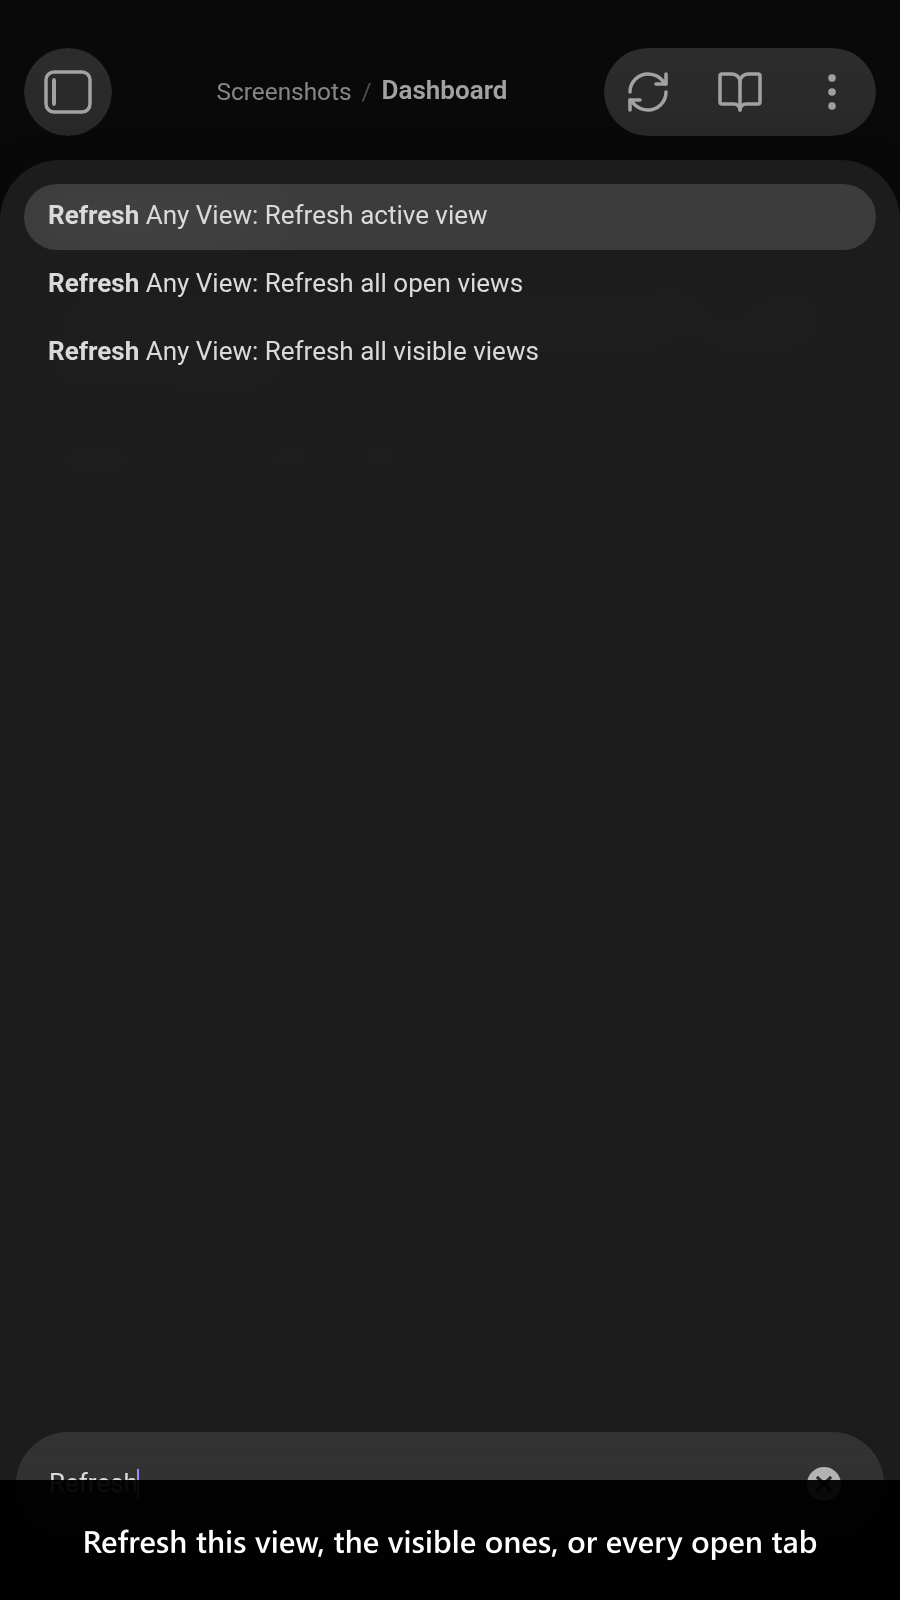
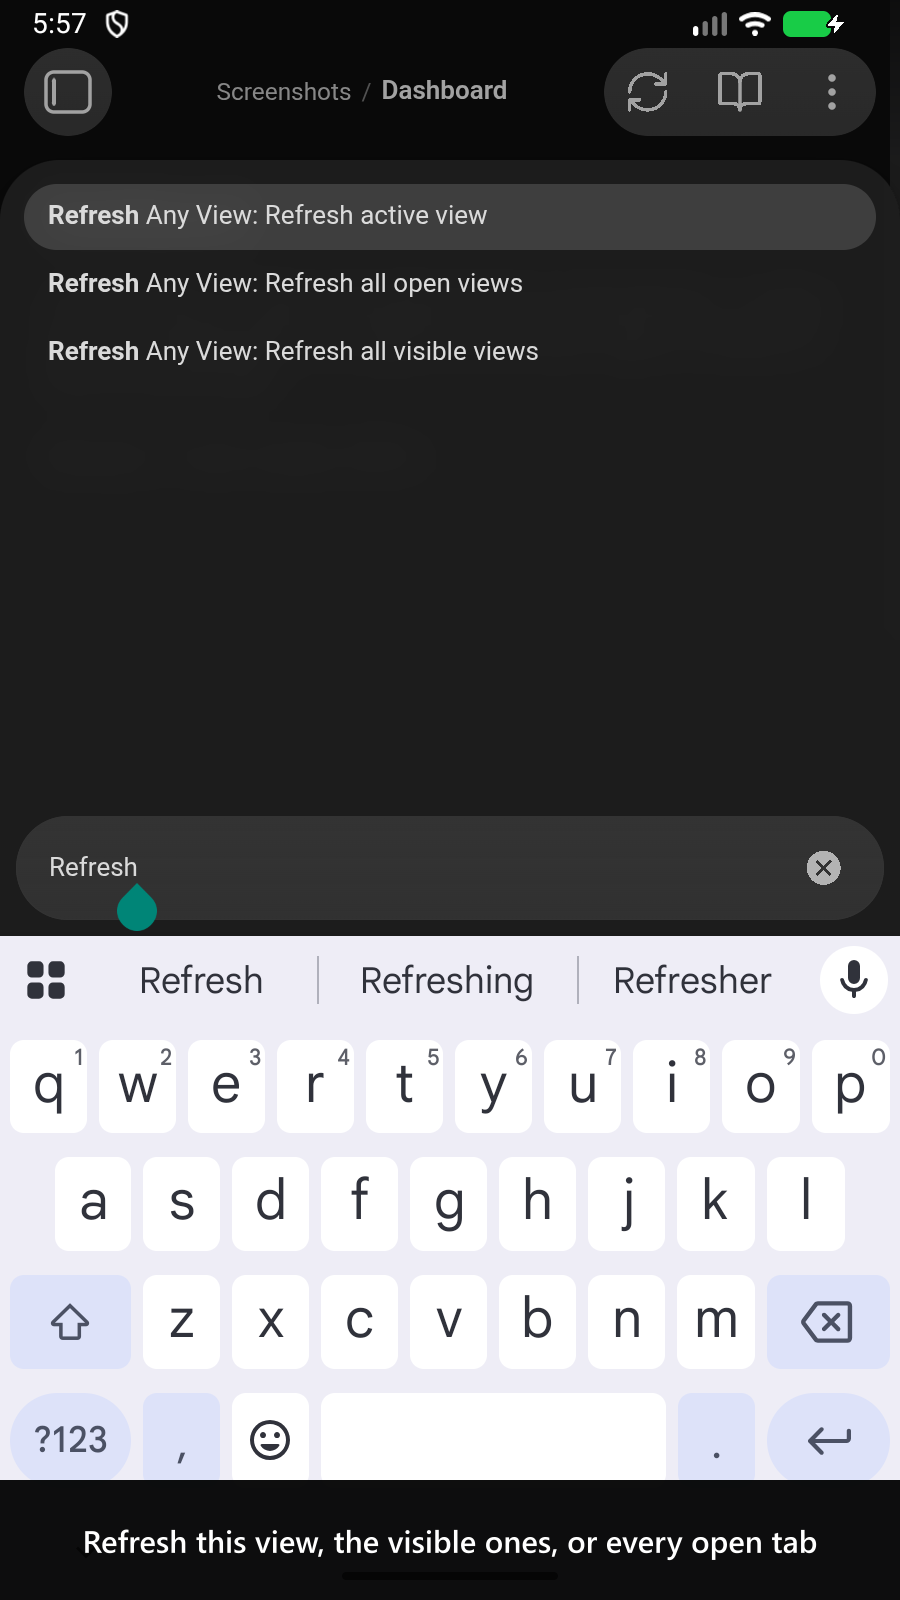
test(integration): take the palette frame with the soft keyboard up
The command-palette frame is a focused search field over nothing: the page
capture it used cannot show a keyboard, because it drives Appium in the
WebView context and the IME is a system window rather than part of the page.
So two thirds of the frame was an empty band where a phone shows a keyboard,
and the caption band - drawn across the bottom of the image - landed on the
field itself.

That frame now comes from the device framebuffer with the keyboard raised
first. Measured as the largest contiguous flat row-run, it falls from 66.7%
to 28.2%, with the band's lower edge moving to where the keyboard starts; all
three refresh commands and the typed query are legible, which is what the
caption promises. Both halves of raising it come from the harness: the AVD is
built with a hardware keyboard attached, so Android suppresses the on-screen
one until the device setting is flipped, and a WebView will not ask for an IME
on programmatic focus alone, so it takes a real touch on the field. The
setting is restored exactly afterwards, including the case where it had never
been written.

The swap is per SHOT, not per suite. The in-view refresh-button frame has no
focused field - a real phone would show no keyboard there either - so it keeps
the page capture and stays byte-reproducible; it re-captured to the same bytes,
and only the palette frame is modified here. That frame is the one that gives
up reproducibility, since the status-bar clock and the battery indicator are
now in it.

diff --git a/src/screenshots.android-capture.integration.test.ts b/src/screenshots.android-capture.integration.test.ts
@@ -32,10 +32,14 @@ import {
 import { join } from 'node:path';
 import process from 'node:process';
 import {
+  captureDeviceScreenshot,
   captureObsidianScreenshot,
   evalInObsidian,
   labelScreenshot,
-  readPngDimensions
+  raiseSoftKeyboard,
+  readPngDimensions,
+  resolveEmulatorDeviceId,
+  withSoftKeyboardEnabled
 } from 'obsidian-integration-testing';
 import { getTemporaryVault } from 'obsidian-integration-testing/vitest-global-setup-plugin';
 import {
@@ -89,7 +93,25 @@ const SUBJECT_NOTE_PATH = 'Screenshots/Dashboard.md';
 
 const IMAGES_DIRECTORY = join(process.cwd(), 'images', 'screenshots');
 
+/**
+ * The AVD the frames are taken on, matched by name.
+ *
+ * Never the first device `adb devices` lists: a physical phone is routinely plugged into the same
+ * machine, and the shared AVD the cross-platform suites drive is a different size.
+ */
+const AVD_NAME = 'obsidian_screenshots';
+
+/**
+ * Obsidian's command palette input, read off this suite's own palette helper rather than assumed: the
+ * palette renders `.prompt input`, which is not the `.prompt-input` a suggester renders.
+ */
+const PALETTE_INPUT_SELECTOR = '.prompt input';
+
+let deviceId = '';
+
 beforeAll(async () => {
+  deviceId = await resolveEmulatorDeviceId({ avdName: AVD_NAME });
+
   const vault = getTemporaryVault();
 
   vault.populate({ [SUBJECT_NOTE_PATH]: buildSubjectNote() });
@@ -131,7 +153,7 @@ describe('mobile store screenshots', () => {
   it('1 - the commands it registers', async () => {
     const commandNames = await openCommandPalette('Refresh');
     expect(commandNames.length).toBeGreaterThan(1);
-    await shoot(1, 'Refresh this view, the visible ones, or every open tab');
+    await shootWithSoftKeyboard(1, 'Refresh this view, the visible ones, or every open tab');
   });
 
   it('2 - the button the plugin adds to every view', async () => {
@@ -306,6 +328,61 @@ async function openCommandPalette(query: string): Promise<string[]> {
 async function shoot(index: number, caption: string): Promise<void> {
   const captured = await captureObsidianScreenshot({ vaultPath: vaultPath() });
 
+  await writeFrame(index, caption, captured);
+}
+
+/**
+ * Raises the soft keyboard, captures the DEVICE, and writes the frame.
+ *
+ * For a shot whose subject is a focused field. `captureObsidianScreenshot` cannot show a keyboard: it
+ * drives Appium in the WebView context, so it photographs the page, and the IME is a system window that
+ * is not part of the page — which left such a frame as a field over a large empty band, with the caption
+ * band landing on the field and clipping the typed text.
+ *
+ * Two things are needed and both belong to the harness rather than here: the AVD is built with a hardware
+ * keyboard attached, so Android suppresses the on-screen one until `withSoftKeyboardEnabled` lifts that
+ * and puts the setting back exactly — including putting back a setting that had never been written, which
+ * takes a delete rather than a write; and a WebView will not ask for an IME on programmatic focus alone,
+ * so `raiseSoftKeyboard` lands a real touch on the field and then proves geometrically that it lifted,
+ * because nothing in the page reports the keyboard.
+ *
+ * The trade, which applies only to the shots that switch: a device capture is **not** byte-reproducible,
+ * because the status-bar clock and the battery indicator are in it. A shot with no focused field keeps
+ * {@link shoot} and stays reproducible — a real phone shows no keyboard there either, so raising one
+ * would make that frame less true rather than more.
+ *
+ * @param index - The 1-based listing position.
+ * @param caption - The caption drawn across the bottom of the frame.
+ */
+async function shootWithSoftKeyboard(index: number, caption: string): Promise<void> {
+  const captured = await withSoftKeyboardEnabled({
+    async callback() {
+      await raiseSoftKeyboard({
+        deviceId,
+        inputSelector: PALETTE_INPUT_SELECTOR,
+        vaultPath: vaultPath()
+      });
+
+      return await captureDeviceScreenshot({ deviceId });
+    },
+    deviceId
+  });
+
+  await writeFrame(index, caption, captured);
+}
+
+function vaultPath(): string {
+  return getTemporaryVault().path;
+}
+
+/**
+ * Asserts the frame is the store size, captions it, and writes it out.
+ *
+ * @param index - The 1-based listing position.
+ * @param caption - The caption drawn across the bottom of the frame.
+ * @param captured - The raw PNG, from either capture route.
+ */
+async function writeFrame(index: number, caption: string, captured: Uint8Array): Promise<void> {
   // The AVD is 900x1600, so the device frame IS the store size. Asserting it
   // Here is what keeps that true: run this against any other AVD and it fails
   // Loudly instead of quietly shipping an off-spec image.
@@ -318,8 +395,4 @@ async function shoot(index: number, caption: string): Promise<void> {
 
   mkdirSync(IMAGES_DIRECTORY, { recursive: true });
   writeFileSync(join(IMAGES_DIRECTORY, `screenshot-mobile-${String(index)}.png`), labeled);
-}
-
-function vaultPath(): string {
-  return getTemporaryVault().path;
 }

diff --git a/AGENTS.md b/AGENTS.md
@@ -1,1 +1,35 @@
 # AGENTS.md
+
+## Testing notes
+
+### The mobile screenshot capture suite
+
+The mobile frames are captured by **two different routes**, and which route a frame takes is a decision
+about that frame rather than a style choice:
+
+- **A frame whose subject is not a focused field captures the PAGE** (`captureObsidianScreenshot`), which
+  is byte-reproducible: no status bar and no clock, so re-capturing an unchanged frame leaves no diff. A
+  real phone shows no keyboard on such a screen either, so raising one would make the frame *less* true.
+- **A frame whose subject IS a focused field captures the DEVICE** (`captureDeviceScreenshot`), with the
+  soft keyboard raised first. A page capture cannot show a keyboard: it drives Appium in the WebView
+  context, so it photographs the page, and the IME is a system window that is not part of the page. That
+  left the command-palette frame as a search field over a large empty band, with the caption band — drawn
+  across the bottom of the image — landing on the field and clipping the typed text. **The cost is that
+  the switched frame is no longer byte-reproducible**, since the status-bar clock and the battery
+  indicator are in it. Do not "fix" that churn by putting it back on the page capture, and do not switch
+  the other frames over for consistency.
+- **Raising the keyboard takes TWO things**, which is why both belong to `obsidian-integration-testing`
+  rather than being copied in here. The AVD is built with a hardware keyboard attached, so Android
+  suppresses the on-screen one entirely — `withSoftKeyboardEnabled` lifts that for the duration of a shot
+  and restores the device exactly, including restoring a setting that had never been written, which takes
+  a delete rather than a write. And a WebView will not ask for an IME on programmatic focus alone:
+  `raiseSoftKeyboard` lands a real touch on the field and then proves geometrically that it lifted,
+  because nothing in the page reports the keyboard — `innerHeight`, `visualViewport` and the modal
+  container all keep their full height with it shown. A failure writes the device framebuffer and the
+  device's own input-method state to `dist/screenshots/`, because a bare assertion failure here is
+  unreadable.
+- **A passing lift check is not the same as a good frame.** The check asks whether the FIELD moved clear
+  of the bottom; it cannot tell you the keyboard covered the thing the shot is evidence for. So look at a
+  switched frame, every time, rather than trusting the measurement alone.
+- **The field it touches is read off the suite, not assumed.** The command palette renders
+  `.prompt input`, which is not the `.prompt-input` a suggester renders.
